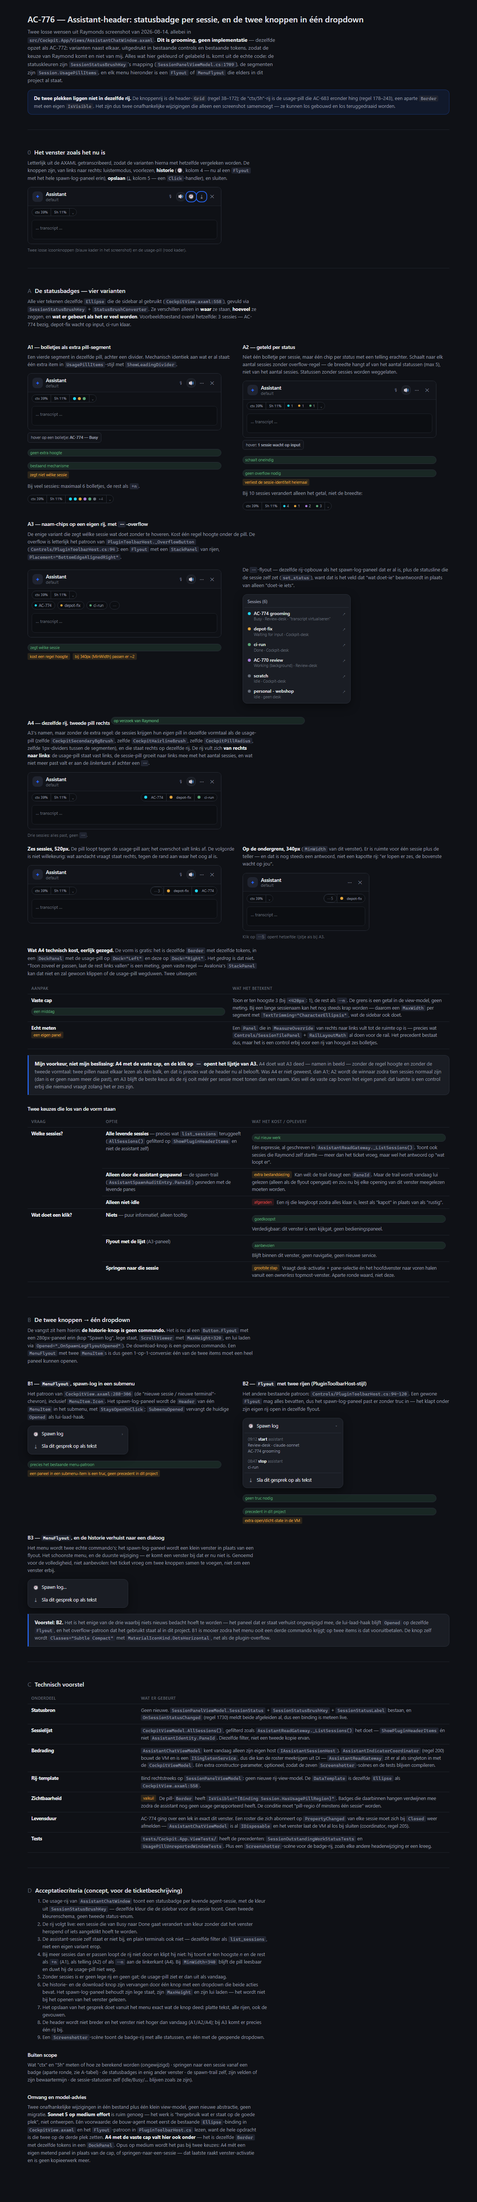
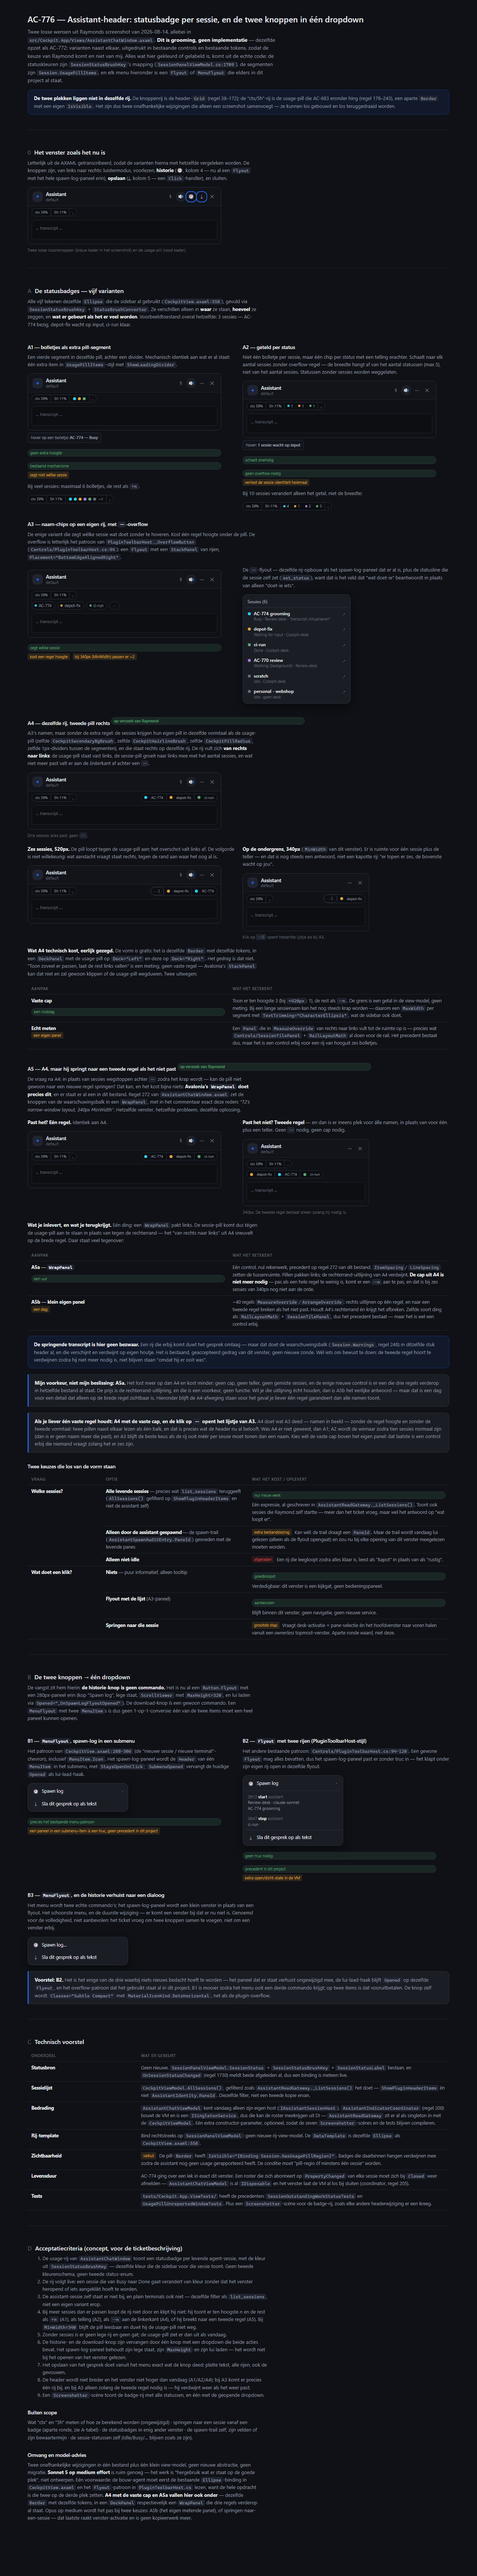
AC-776: variant A5 — de sessie-pill breekt naar een tweede regel als hij niet past
Antwoord op Raymonds vervolgvraag: in plaats van sessies wegstoppen achter
een teller zodra het krap wordt, breekt de rij af. Avalonia's WrapPanel doet
dit, en er staat er al een op regel 272 van hetzelfde bestand met exact deze
motivatie (340px MinWidth). Kost de rechterrand-uitlijning van A4 en maakt de
vaste cap overbodig; A5b (eigen metend panel) houdt beide maar kost een dag.

Changed region(s): [[0.0625, 0.0, 0.9375, 0.998], [0.875, 0.0312, 0.9062, 0.0624], [0.6562, 0.3119, 0.6875, 0.3431]]

diff --git a/docs/mockups/ac-776-assistant-header-2026-08-14.html b/docs/mockups/ac-776-assistant-header-2026-08-14.html
@@ -174,8 +174,8 @@ en sluiten.</p>
 <p class="cap">Twee losse icoonknoppen (blauw kader in het screenshot) en de usage-pill (rood kader).</p>
 
 <hr>
-<h2><span class="n">A</span>De statusbadges — vier varianten</h2>
-<p class="note">Alle vier tekenen dezelfde <code>Ellipse</code> die de sidebar al gebruikt
+<h2><span class="n">A</span>De statusbadges — vijf varianten</h2>
+<p class="note">Alle vijf tekenen dezelfde <code>Ellipse</code> die de sidebar al gebruikt
 (<code>CockpitView.axaml:558</code>), gevuld via <code>SessionStatusBrushKey</code> + <code>StatusBrushConverter</code>.
 Ze verschillen alleen in <b>waar</b> ze staan, <b>hoeveel</b> ze zeggen, en <b>wat er gebeurt als het er veel worden</b>.
 Voorbeeldtoestand overal hetzelfde: 3 sessies — AC-774 bezig, depot-fix wacht op input, ci-run klaar.</p>
@@ -421,8 +421,104 @@ niet en zal gewoon klippen of de usage-pill wegduwen. Twee uitwegen:</p>
     precedent bestaat dus, maar het is een control erbij voor een rij van hooguit zes bolletjes.</td></tr>
 </table>
 
+<h3>A5 — A4, maar hij springt naar een tweede regel als het niet past <span class="tag win">op verzoek van Raymond</span></h3>
+<p class="note">De vraag na A4: in plaats van sessies wegstoppen achter <code>⋯</code> zodra het krap wordt — kan
+de pill niet gewoon naar een nieuwe regel springen? Dat kan, en het kost bijna niets: <b>Avalonia's
+<code>WrapPanel</code> doet precies dit</b>, en er staat er al een in dit bestand. Regel 272 van
+<code>AssistantChatWindow.axaml</code> zet de knoppen van de waarschuwingsbalk in een <code>WrapPanel</code>, met
+in het commentaar exact deze reden: <i>"T2's narrow-window layout, 340px MinWidth"</i>. Hetzelfde venster,
+hetzelfde probleem, dezelfde oplossing.</p>
+
+<div class="cols">
+<div class="col">
+<p class="note"><b>Past het? Eén regel.</b> Identiek aan A4.</p>
+<div class="win">
+  <div class="hdr">
+    <div class="avatar">✦</div>
+    <div><div class="hname">Assistant</div><div class="hprof">default</div></div>
+    <div class="hbtns"><div class="ib">🎙</div><div class="ib solid">🔊</div><div class="ib">⋯</div><div class="ib">✕</div></div>
+  </div>
+  <div class="body">
+    <div class="pillrow split">
+      <div class="pill">
+        <div class="seg">ctx 39%</div><div class="div"></div>
+        <div class="seg">5h 11%</div><div class="div"></div><div class="chev">⌄</div>
+      </div>
+      <div class="pill">
+        <div class="seg nm"><span class="dot busy"></span>AC-774</div><div class="div"></div>
+        <div class="seg nm"><span class="dot waiting"></span>depot-fix</div><div class="div"></div>
+        <div class="seg nm"><span class="dot done"></span>ci-run</div>
+      </div>
+    </div>
+    <div class="transcript">… transcript …</div>
+  </div>
+</div>
+</div>
+<div class="col">
+<p class="note"><b>Past het niet? Tweede regel</b> — en dan is er ineens plek voor álle namen, in plaats van voor
+één plus een teller. Geen <code>⋯</code> nodig, geen cap nodig.</p>
+<div class="win narrow">
+  <div class="hdr">
+    <div class="avatar">✦</div>
+    <div><div class="hname">Assistant</div><div class="hprof">default</div></div>
+    <div class="hbtns"><div class="ib">⋯</div><div class="ib">✕</div></div>
+  </div>
+  <div class="body">
+    <div class="pillrow">
+      <div class="pill">
+        <div class="seg">ctx 39%</div><div class="div"></div>
+        <div class="seg">5h 11%</div><div class="div"></div><div class="chev">⌄</div>
+      </div>
+    </div>
+    <div class="pillrow">
+      <div class="pill">
+        <div class="seg nm"><span class="dot waiting"></span>depot-fix</div><div class="div"></div>
+        <div class="seg nm"><span class="dot busy"></span>AC-774</div><div class="div"></div>
+        <div class="seg nm"><span class="dot done"></span>ci-run</div>
+      </div>
+    </div>
+    <div class="transcript">… transcript …</div>
+  </div>
+</div>
+<p class="cap">340px. De tweede regel bestaat alleen zolang hij nodig is.</p>
+</div>
+</div>
+
+<p class="note" style="margin-top:16px"><b>Wat je inlevert, en wat je terugkrijgt.</b> Eén ding: een
+<code>WrapPanel</code> pakt links. De sessie-pill komt dus tégen de usage-pill aan te staan in plaats van tegen de
+rechterrand — het "van rechts naar links" uit A4 sneuvelt op de brede regel. Daar staat veel tegenover:</p>
+<table>
+<tr><th style="width:30%">Aanpak</th><th>Wat het betekent</th></tr>
+<tr><td><b>A5a — <code>WrapPanel</code></b><br><span class="tag win">een uur</span></td>
+    <td>Eén control, nul rekenwerk, precedent op regel 272 van dit bestand. <code>ItemSpacing</code>/
+    <code>LineSpacing</code> zetten de tussenruimte. Pillen pakken links; de rechterrand-uitlijning van A4 verdwijnt.
+    <b>De cap uit A4 is niet meer nodig</b> — pas als een hele regel te weinig is, komt er een <code>⋯n</code> aan te
+    pas, en dat is bij zes sessies van 340px nog niet aan de orde.</td></tr>
+<tr><td><b>A5b — klein eigen panel</b><br><span class="tag cost">een dag</span></td>
+    <td>~40 regels <code>MeasureOverride</code>/<code>ArrangeOverride</code>: rechts uitlijnen op één regel, en naar
+    een tweede regel breken als het niet past. Houdt A4's rechterrand én krijgt het afbreken. Zelfde soort ding als
+    <code>RailLayoutMath</code> + <code>SessionTilePanel</code>, dus het precedent bestaat — maar het is wel een
+    control erbij.</td></tr>
+</table>
+
+<div class="banner">
+<b>De springende transcript is hier geen bezwaar.</b> Een rij die erbij komt duwt het gesprek omlaag — maar dat doet
+de waarschuwingsbalk (<code>Session.Warnings</code>, regel 248) in ditzelfde stuk header al, en die verschijnt en
+verdwijnt op eigen houtje. Het is bestaand, geaccepteerd gedrag van dit venster, geen nieuwe zonde. Wél iets om
+bewust te doen: de tweede regel hoort te verdwijnen zodra hij niet meer nodig is, niet blijven staan "omdat hij er
+ooit was".
+</div>
+
 <div class="verdict">
-<b>Mijn voorkeur, niet mijn beslissing: A4 met de vaste cap, en de klik op <code>⋯</code> opent het lijstje van
+<b>Mijn voorkeur, niet mijn beslissing: A5a.</b> Het lost meer op dan A4 en kost minder: geen cap, geen teller,
+geen gemiste sessies, en de enige nieuwe control is er een die drie regels verderop in hetzelfde bestand al staat.
+De prijs is de rechterrand-uitlijning, en die is een voorkeur, geen functie. Wil je die uitlijning écht houden, dan
+is A5b het eerlijke antwoord — maar dat is een dag voor een detail dat alleen op de brede regel zichtbaar is.
+Hieronder blijft de A4-afweging staan voor het geval je liever één regel garandeert dan alle namen toont.
+</div>
+
+<div class="verdict">
+<b>Als je liever één vaste regel houdt: A4 met de vaste cap, en de klik op <code>⋯</code> opent het lijstje van
 A3.</b> A4 doet wat A3 deed — namen in beeld — zonder de regel hoogte en zonder de tweede vormtaal: twee pillen
 naast elkaar lezen als één balk, en dat is precies wat de header nu al belooft. Was A4 er niet geweest, dan A1;
 A2 wordt de winnaar zodra tien sessies normaal zijn (dan is er geen naam meer die past), en A3 blijft de beste
@@ -559,15 +655,16 @@ krijgt; op twee items is dat vooruitbetalen. De knop zelf wordt <code>Classes="S
 <li>De assistant-sessie zelf staat er niet bij, en plain terminals ook niet — dezelfde filter als
   <code>list_sessions</code>, niet een eigen variant erop.</li>
 <li>Bij meer sessies dan er passen loopt de rij niet door en klipt hij niet: hij toont er ten hoogste <i>n</i> en de
-  rest als <code>+n</code> (A1), als telling (A2) of als <code>⋯n</code> aan de linkerkant (A4). Bij
-  <code>MinWidth=340</code> blijft de pill leesbaar en duwt hij de usage-pill niet weg.</li>
+  rest als <code>+n</code> (A1), als telling (A2), als <code>⋯n</code> aan de linkerkant (A4), of hij breekt naar een
+  tweede regel (A5). Bij <code>MinWidth=340</code> blijft de pill leesbaar en duwt hij de usage-pill niet weg.</li>
 <li>Zonder sessies is er geen lege rij en geen gat; de usage-pill ziet er dan uit als vandaag.</li>
 <li>De historie- en de download-knop zijn vervangen door één knop met een dropdown die beide acties bevat. Het
   spawn-log-paneel behoudt zijn lege staat, zijn <code>MaxHeight</code> en zijn lui laden — het wordt niet bij het
   openen van het venster gelezen.</li>
 <li>Het opslaan van het gesprek doet vanuit het menu exact wat de knop deed: platte tekst, alle rijen, ook de
   gevouwen.</li>
-<li>De header wordt niet breder en het venster niet hoger dan vandaag (A1/A2/A4); bij A3 komt er precies één rij bij.</li>
+<li>De header wordt niet breder en het venster niet hoger dan vandaag (A1/A2/A4); bij A3 komt er precies één rij bij,
+  en bij A5 alleen zolang de tweede regel nodig is — hij verdwijnt weer als het weer past.</li>
 <li>Een <code>Screenshotter</code>-scène toont de badge-rij met alle statussen, en één met de geopende dropdown.</li>
 </ol>
 
@@ -581,10 +678,11 @@ zijn bewaartermijn · de sessie-statussen zelf (Idle/Busy/… blijven zoals ze z
 geen migratie. <b>Sonnet 5 op medium effort</b> is ruim genoeg — het werk is "hergebruik wat er staat op de goede
 plek", niet ontwerpen. Eén voorwaarde: de bouw-agent moet eerst de bestaande <code>Ellipse</code>-binding in
 <code>CockpitView.axaml</code> en het <code>Flyout</code>-patroon in <code>PluginToolbarHost.cs</code> lezen, want
-de hele opdracht is die twee op de derde plek zetten. <b>A4 met de vaste cap valt hier ook onder</b> — het is
-dezelfde <code>Border</code> met dezelfde tokens in een <code>DockPanel</code>. Opus op medium wordt het pas bij
-twee keuzes: A4 mét een eigen metend panel in plaats van de cap, of springen-naar-een-sessie — dat laatste raakt
-venster-activatie en is geen kopieerwerk meer.</p>
+de hele opdracht is die twee op de derde plek zetten. <b>A4 met de vaste cap en A5a vallen hier ook onder</b> —
+dezelfde <code>Border</code> met dezelfde tokens, in een <code>DockPanel</code> respectievelijk een
+<code>WrapPanel</code> die drie regels verderop al staat. Opus op medium wordt het pas bij twee keuzes: A5b (het
+eigen metende panel), of springen-naar-een-sessie — dat laatste raakt venster-activatie en is geen kopieerwerk
+meer.</p>
 
 </div>
 </body>
